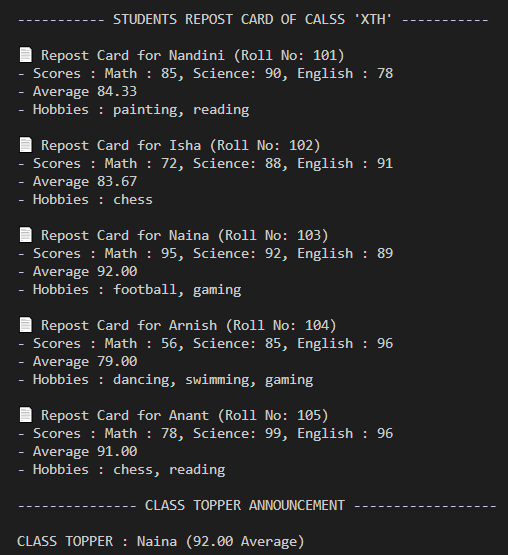
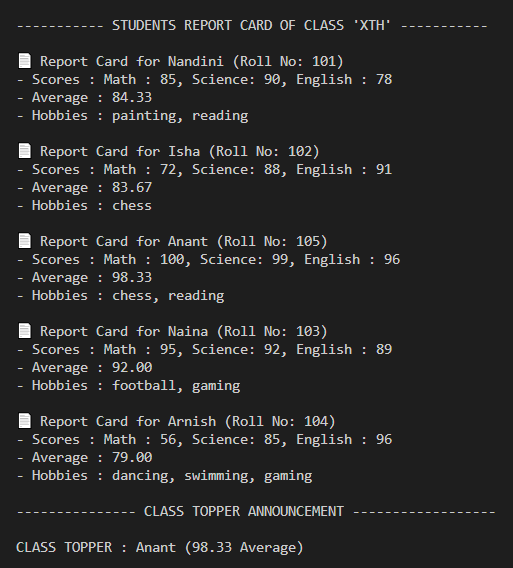
final completion , spelling correction , ss update

diff --git a/student_Report_Card_Generator.py b/student_Report_Card_Generator.py
@@ -8,9 +8,9 @@ topper = ""
 students = [
     ("Nandini", (85, 90, 78), 101, "painting", "reading"),
     ("Isha", (72, 88, 91), 102, "chess"),
+    ("Anant", (100,99,96), 105, "chess", "reading"),
     ("Naina", (95, 92, 89), 103, "football", "gaming"),
-    ("Arnish", (56,85,96), 104, "dancing", "swimming", "gaming"),
-    ("Anant", (78,99,96), 105, "chess", "reading")
+    ("Arnish", (56,85,96), 104, "dancing", "swimming", "gaming")
 ]
 
 # Accessing each item of tuple using loops
@@ -27,7 +27,7 @@ for name, scores, enroll, *hobbies in students:
         # update maximum average and name of student
         max_avg = avg
         topper = name
-    print(f"- Average {avg:.2f}")
+    print(f"- Average : {avg:.2f}")
     print(f"- Hobbies : {', '.join(hobbies)}")
 
 print("\n--------------- CLASS TOPPER ANNOUNCEMENT ------------------\n")
